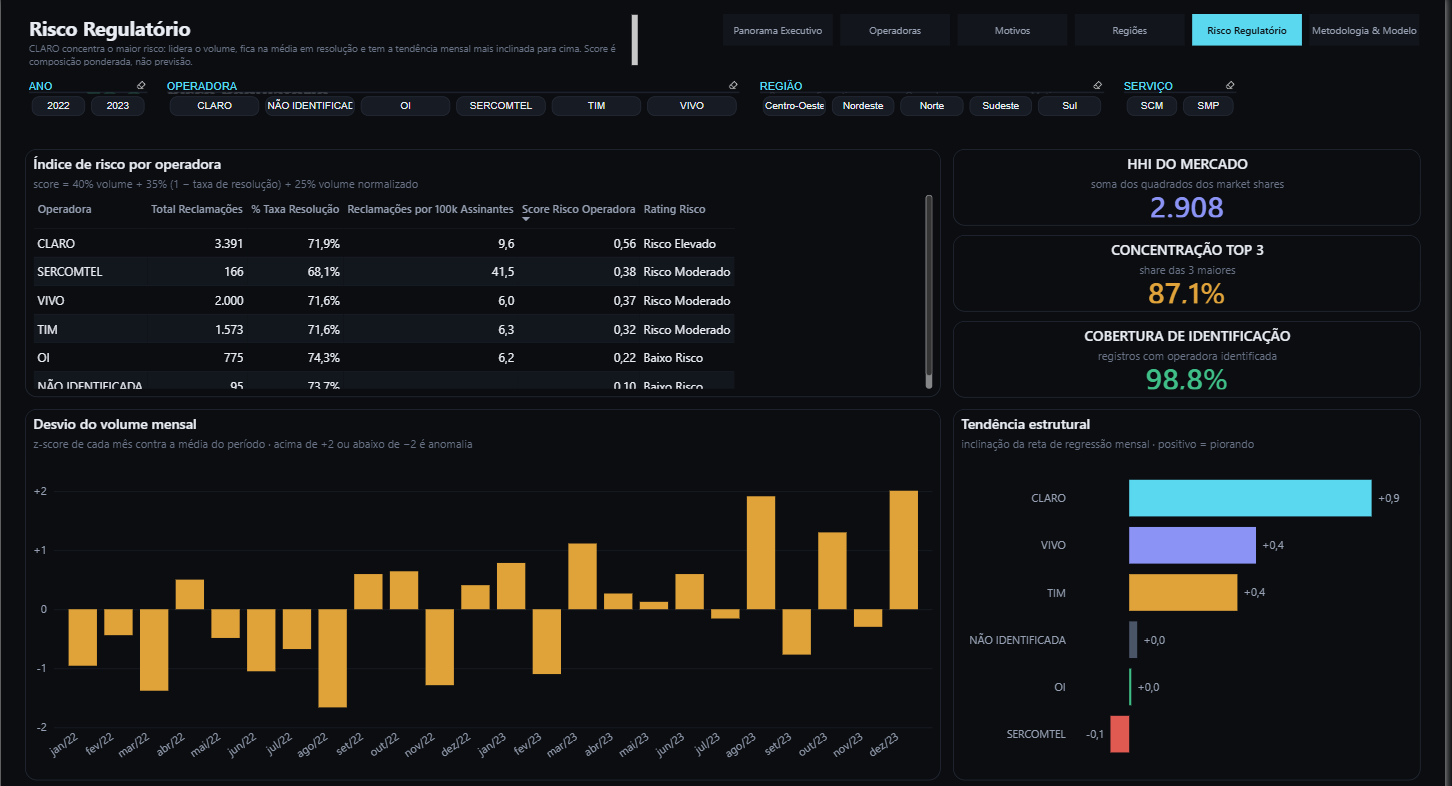
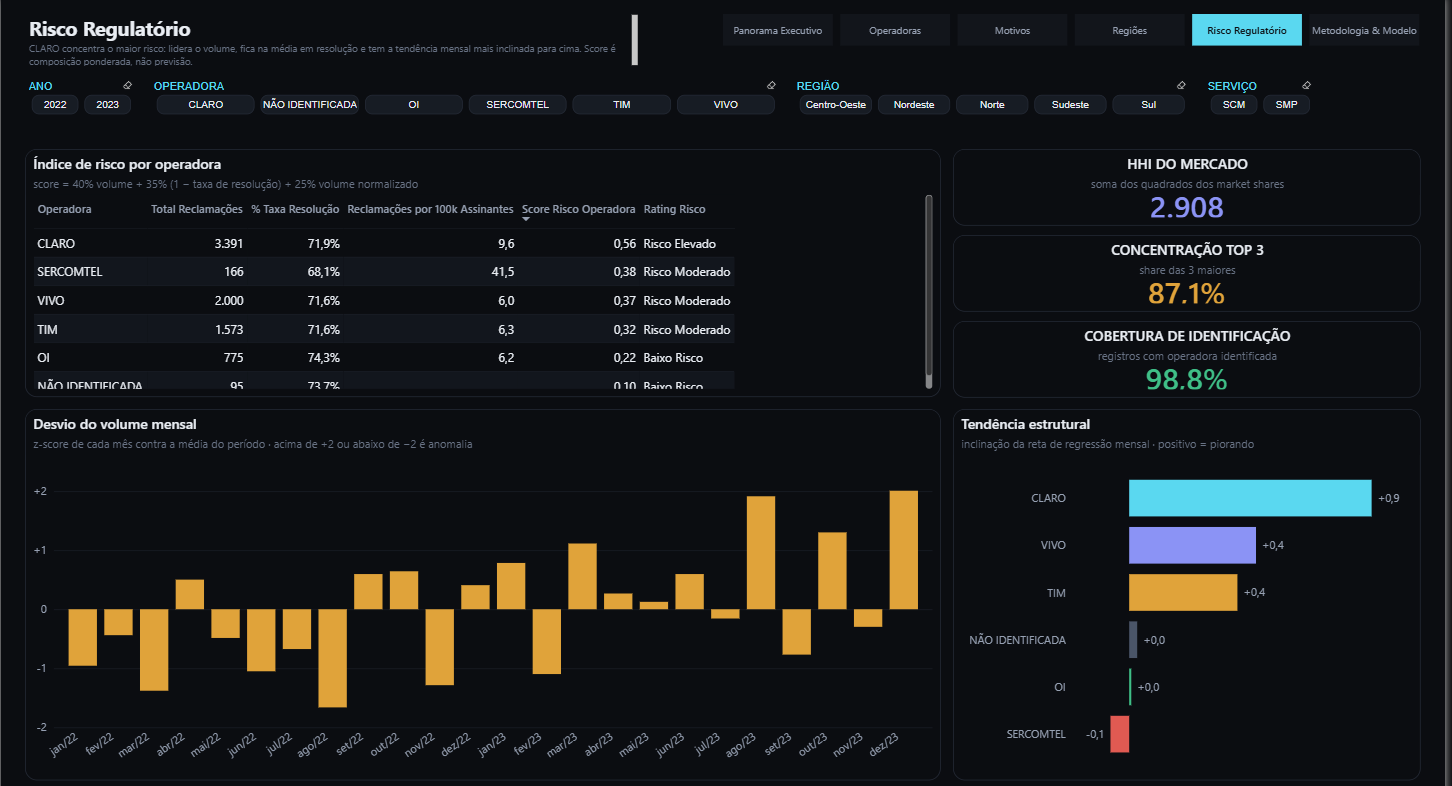
style: retoques finais na faixa de filtros
Tira o fio embaixo do titulo do filtro. Num filtro largo a regra corria a linha
inteira e passava a ler como um elemento solto sob o titulo — caixa alta na cor
de destaque ja identifica sem precisar do risco.

Larguras recalculadas pelo rotulo mais longo de cada campo: o Chiclet divide a
largura do visual pelo numero de colunas, entao "NAO IDENTIFICADA" em Operadora
e "Centro-Oeste" em Regiao passam a caber inteiros, sem truncar.

No digital_divide, o filtro de Estado perde a caixa de busca: o campo de
pesquisa do Chiclet vem com fundo branco fixo, que destoava do rail inteiro. Os
27 estados rolam dentro do proprio bloco, e o filtro de Regiao ja reduz a lista
antes disso.

Screenshots atualizados.

diff --git a/tools/build_report.py b/tools/build_report.py
@@ -677,9 +677,7 @@ def chiclet(page: str, key: str, box, label: str, entity: str, prop: str,
             "header": obj(
                 show=lit(True), title=lit(label.upper()),
                 fontColor=solid(CYAN), background=solid(BG_PAGE),
-                textSize=lit(11),
-                outline=lit("BottomOnly"), outlineColor=solid(BORDER),
-                outlineWeight=lit(1),
+                textSize=lit(11), outline=lit("None"),
             ),
             "rows": obj(
                 fontColor=solid(TXT), textSize=lit(10),
@@ -799,7 +797,10 @@ def chrome(page: str, title: str, subtitle: str, filters: bool = True) -> list:
         # espaco. Operadora tem 6, Regiao 5, Ano e Servico 2 cada.
         # "NAO IDENTIFICADA" e o rotulo mais longo: Operadora precisa de folga
         # para os 6 blocos caberem sem truncar o texto.
-        widths = [(MARGIN, 168), (MARGIN + 184, 772), (MARGIN + 972, 468), (MARGIN + 1456, 160)]
+        # Cada bloco recebe largura_do_filtro / colunas: a largura de cada faixa
+        # e ditada pelo rotulo mais longo do campo ("NAO IDENTIFICADA" em
+        # Operadora, "Centro-Oeste" em Regiao).
+        widths = [(MARGIN, 150), (MARGIN + 166, 840), (MARGIN + 1022, 530), (MARGIN + 1568, 150)]
         specs = [
             ("Ano", "dim_calendario", "Ano", 2),
             ("Operadora", "dim_operadora", "Operadora", 6),
